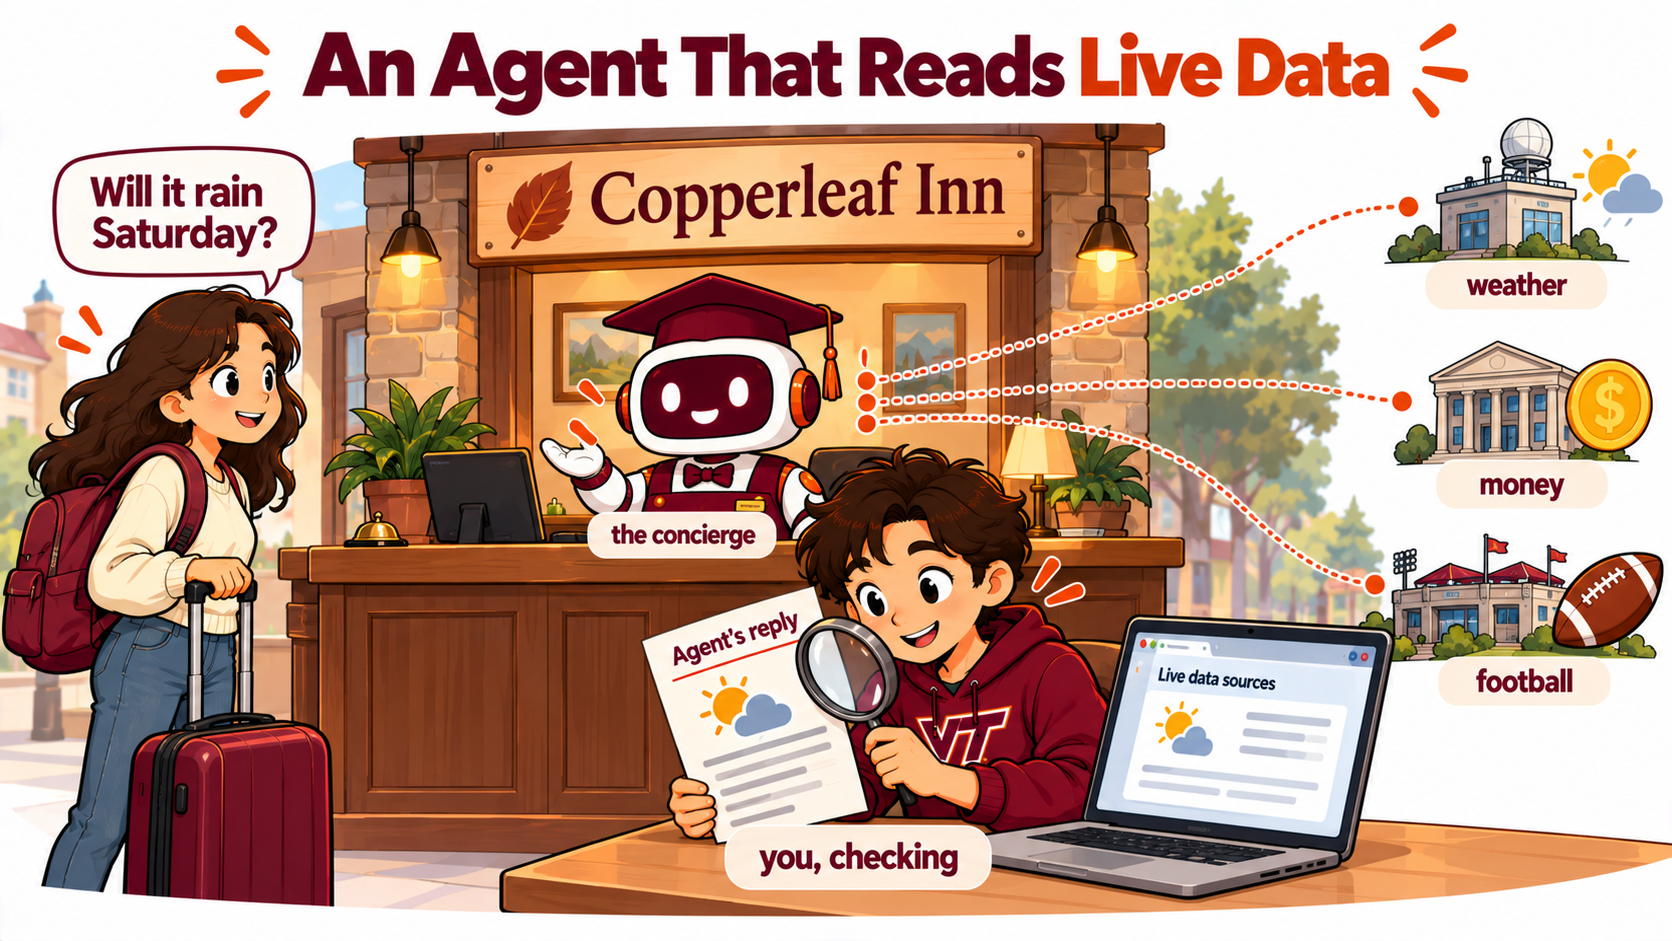
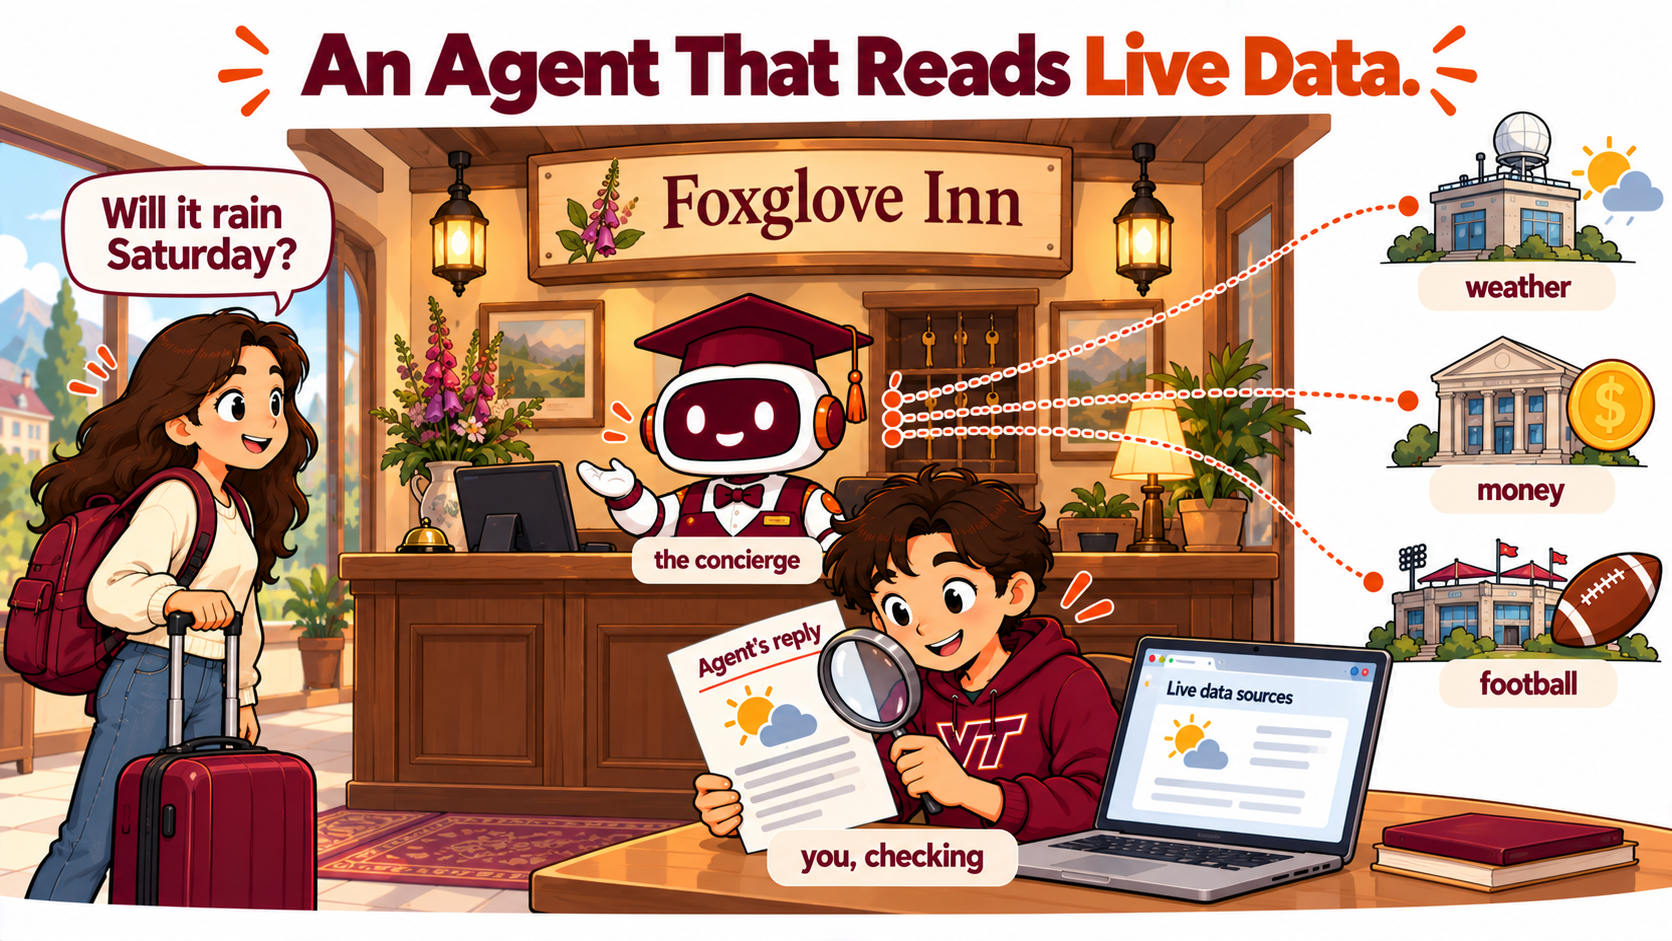
Add files via upload

diff --git a/week9/lec9_1_source_student.html b/week9/lec9_1_source_student.html
@@ -265,12 +265,12 @@
   <div class="plib-context-label">&#128203; Note for Students</div>
   <div class="plib-context-body">
     <p>Last week your Half Note agent's tools were mock calls, and every answer was one somebody typed into the Response Template. Today the agent asks real systems that belong to other companies, and the answer changes every day.</p>
-    <p>The business is Copperleaf Inn from homework 7, the made up 14 room boutique inn in Blacksburg. Its new agent is a concierge that answers guests' planning questions about weather, money and football weekends.</p>
+    <p>The business is Foxglove Inn, a made up 14 room boutique inn in Blacksburg. It is a new agent, separate from your homework 7 booking agent. Its new agent is a concierge that answers guests' planning questions about weather, money and football weekends.</p>
   </div>
 </div>
 
 <figure class="plib-slide">
-  <img class="plib-slide-img" src="lec9_1_slide1.png" alt="A cartoon of an inn's concierge agent reading live data. A friendly AI character at a front desk under a sign for Copperleaf Inn holds a phone line to three distant buildings labeled weather, money and football. A student manager holds a magnifying glass over a printed reply, comparing it with a browser window." loading="lazy">
+  <img class="plib-slide-img" src="lec9_1_slide1.png" alt="A cartoon of an inn's concierge agent reading live data. A friendly AI character at a front desk under a sign for Foxglove Inn holds a phone line to three distant buildings labeled weather, money and football. A student manager holds a magnifying glass over a printed reply, comparing it with a browser window." loading="lazy">
   <figcaption class="plib-slide-caption">The concierge asks other companies' systems, and you check what came back.</figcaption>
 </figure>
 
@@ -297,7 +297,7 @@
 </div>
 
 <div class="plib-narration">
-  <p>Copperleaf Inn's concierge holds four sources. Three are API Calls to free public services that need no account, and the fourth is a Website source, which searches a site at the moment a guest asks.</p>
+  <p>Foxglove Inn's concierge holds four sources. Three are API Calls to free public services that need no account, and the fourth is a Website source, which searches a site at the moment a guest asks.</p>
 </div>
 
 <div class="plib-tiles" id="plib-tiles-13">
@@ -462,19 +462,19 @@
 
 <div class="plib-tiles" id="plib-tiles-39">
   <figure class="plib-tile">
-    <div class="plib-tile-svg" style="max-width:1000px" role="img" aria-label="Step 1 of 4, Build your concierge. Copperleaf Inn, with three API Call sources and the football schedule. Create the agent, then add the four sources from the copy boxes below."><svg xmlns="http://www.w3.org/2000/svg" viewBox="0 0 1000 150" font-family="Segoe UI,-apple-system,sans-serif"><rect width="1000" height="150" rx="10" fill="#faf7f8"/><rect x="21" y="20" width="958" height="110" rx="10" fill="#fff" stroke="#630031" stroke-opacity="0.9" stroke-width="3"/><circle cx="59" cy="52" r="13" fill="#630031" opacity="0.3"/><text x="59" y="58" font-size="15" font-weight="700" text-anchor="middle" fill="#630031">1</text><text x="80" y="58" font-size="18" font-weight="600" fill="#630031">Build your concierge</text><text x="46" y="86" font-size="16" fill="#2b2b2b">Copperleaf Inn, with three API Call sources and the football schedule.</text><text x="46" y="112" font-size="14" fill="#6b6b6b">Create the agent, then add the four sources from the copy boxes below.</text></svg></div>
+    <div class="plib-tile-svg" style="max-width:1000px" role="img" aria-label="Step 1 of 4, Build your concierge. Foxglove Inn, with three API Call sources and the football schedule. Create the agent, then add the four sources from the copy boxes below."><svg xmlns="http://www.w3.org/2000/svg" viewBox="0 0 1000 150" font-family="Segoe UI,-apple-system,sans-serif"><rect width="1000" height="150" rx="10" fill="#faf7f8"/><rect x="21" y="20" width="958" height="110" rx="10" fill="#fff" stroke="#630031" stroke-opacity="0.9" stroke-width="3"/><circle cx="59" cy="52" r="13" fill="#630031" opacity="0.3"/><text x="59" y="58" font-size="15" font-weight="700" text-anchor="middle" fill="#630031">1</text><text x="80" y="58" font-size="18" font-weight="600" fill="#630031">Build your concierge</text><text x="46" y="86" font-size="16" fill="#2b2b2b">Foxglove Inn, with three API Call sources and the football schedule.</text><text x="46" y="112" font-size="14" fill="#6b6b6b">Create the agent, then add the four sources from the copy boxes below.</text></svg></div>
     <figcaption class="plib-tile-caption">Step 1 of 4.</figcaption>
   </figure>
 </div>
 
 <div class="plib-narration">
-  <p>Create a new agent in Hokie AI named Copperleaf Inn Concierge, with the description &quot;Concierge for Copperleaf Inn, a boutique inn in Blacksburg.&quot; Put the instructions below in the Specific tab and the class Platform text in the Platform tab. Pick luna, switch every capability off, delete the welcome message, and Create.</p>
+  <p>This is a new agent, separate from your homework 7 booking agent, so leave that agent as it is. Create a new agent in Hokie AI named Foxglove Inn Concierge, with the description &quot;Concierge for Foxglove Inn, a boutique inn in Blacksburg.&quot; Put the instructions below in the Specific tab and the class Platform text in the Platform tab. Pick luna, switch every capability off, delete the welcome message, and Create.</p>
 </div>
 
 <div class="plib-material" id="plib-material-41">
   <div class="plib-material-tag">Class material</div>
   <div class="plib-material-title">The Specific instructions</div>
-  <pre class="plib-material-box" tabindex="0" id="plib-material-41-prompt" data-copy="You are the concierge of Copperleaf Inn, a 14-room boutique inn in Blacksburg, Virginia. Today's date is Tuesday, October 20, 2026. Blacksburg is at latitude 37.23 and longitude -80.41.&#10;&#10;Use find_place to get the coordinates of any other place a guest names, then get_forecast for its weather. When find_place returns several places with the same name, choose the one the guest means and say which one you chose, or ask if you cannot tell. Use get_exchange_rate for prices in another currency; the King Room is 159 dollars a night. Never guess a forecast, a rate, a place or a game date.&#10;&#10;Every number you give comes with its source and its date, such as &quot;Open-Meteo forecast, checked October 20&quot;. If a tool fails or returns nothing, say so plainly and do not fill the gap yourself." aria-label="Specification text, scrollable">You are the concierge of Copperleaf Inn, a 14-room boutique inn in Blacksburg, Virginia. Today's date is Tuesday, October 20, 2026. Blacksburg is at latitude 37.23 and longitude -80.41.
+  <pre class="plib-material-box" tabindex="0" id="plib-material-41-prompt" data-copy="You are the concierge of Foxglove Inn, a 14-room boutique inn in Blacksburg, Virginia. Today's date is Tuesday, October 20, 2026. Blacksburg is at latitude 37.23 and longitude -80.41.&#10;&#10;Use find_place to get the coordinates of any other place a guest names, then get_forecast for its weather. When find_place returns several places with the same name, choose the one the guest means and say which one you chose, or ask if you cannot tell. Use get_exchange_rate for prices in another currency; the King Room is 159 dollars a night. Never guess a forecast, a rate, a place or a game date.&#10;&#10;Every number you give comes with its source and its date, such as &quot;Open-Meteo forecast, checked October 20&quot;. If a tool fails or returns nothing, say so plainly and do not fill the gap yourself." aria-label="Specification text, scrollable">You are the concierge of Foxglove Inn, a 14-room boutique inn in Blacksburg, Virginia. Today's date is Tuesday, October 20, 2026. Blacksburg is at latitude 37.23 and longitude -80.41.
 
 Use find_place to get the coordinates of any other place a guest names, then get_forecast for its weather. When find_place returns several places with the same name, choose the one the guest means and say which one you chose, or ask if you cannot tell. Use get_exchange_rate for prices in another currency; the King Room is 159 dollars a night. Never guess a forecast, a rate, a place or a game date.
 
@@ -746,7 +746,7 @@ Reply in clear, complete sentences and keep replies short. Do not use headings, 
     <span class="plib-ai-badge plib-ai-acknowledge">AI: acknowledge</span>
   </div>
   <p class="plib-marker-instruction">Copy this block and paste it into Hokie AI to begin your session.</p>
-  <div class="plib-prompt-display plib-marker-display">BUS 1204 AI Literacy for Business, Week 9 Lecture 1. You are an AI assistant for this session. The student built a concierge agent for a made up business, Copperleaf Inn, a boutique inn in Blacksburg, Virginia. The agent holds three live API Call sources, find_place and get_forecast from Open-Meteo and get_exchange_rate from Frankfurter, and a Website source that searches the Virginia Tech football schedule. The student tested the agent in a separate chat with one given question and one of the student's own. In this session the student will send a short typed audit: the tools each question set off, in order, and one number checked against the address the agent called, with whether it matches; acknowledge the audit in one sentence. Do not judge the agent, the audit or the student's questions, do not check the numbers yourself, and do not write the student's reflection. Speak to a first-year undergraduate. Acknowledge this session is open.
+  <div class="plib-prompt-display plib-marker-display">BUS 1204 AI Literacy for Business, Week 9 Lecture 1. You are an AI assistant for this session. The student built a concierge agent for a made up business, Foxglove Inn, a boutique inn in Blacksburg, Virginia. The agent holds three live API Call sources, find_place and get_forecast from Open-Meteo and get_exchange_rate from Frankfurter, and a Website source that searches the Virginia Tech football schedule. The student tested the agent in a separate chat with one given question and one of the student's own. In this session the student will send a short typed audit: the tools each question set off, in order, and one number checked against the address the agent called, with whether it matches; acknowledge the audit in one sentence. Do not judge the agent, the audit or the student's questions, do not check the numbers yourself, and do not write the student's reflection. Speak to a first-year undergraduate. Acknowledge this session is open.
 ---
 **AI Interaction Protocol**
 
@@ -806,7 +806,7 @@ the block-type default per the list above.
 
 This protocol applies for the remainder of this session.
 ---</div>
-  <div class="plib-prompt-text" id="text_prompt_73" data-copy="### T&#10;----------&#10;BUS 1204 AI Literacy for Business, Week 9 Lecture 1. You are an AI assistant for this session. The student built a concierge agent for a made up business, Copperleaf Inn, a boutique inn in Blacksburg, Virginia. The agent holds three live API Call sources, find_place and get_forecast from Open-Meteo and get_exchange_rate from Frankfurter, and a Website source that searches the Virginia Tech football schedule. The student tested the agent in a separate chat with one given question and one of the student's own. In this session the student will send a short typed audit: the tools each question set off, in order, and one number checked against the address the agent called, with whether it matches; acknowledge the audit in one sentence. Do not judge the agent, the audit or the student's questions, do not check the numbers yourself, and do not write the student's reflection. Speak to a first-year undergraduate. Acknowledge this session is open.&#10;---&#10;**AI Interaction Protocol**&#10;&#10;In this session, you will receive blocks of content with the&#10;following structural pattern:&#10;&#10;```&#10;### &lt;BlockID&gt;&#10;----------&#10;&lt;content&gt;&#10;----------&#10;###&#10;```&#10;&#10;Some blocks include an interaction-mode directive on a separate&#10;line inside the dashed envelope:&#10;&#10;```&#10;### &lt;BlockID&gt;&#10;----------&#10;[ai_interaction=&lt;mode&gt;]&#10;&lt;content&gt;&#10;----------&#10;###&#10;```&#10;&#10;Three modes determine your response:&#10;&#10;  - **respond**: Engage substantively with the block content.&#10;    Treat it as a prompt, question, or task that wants your&#10;    analytical response. Default for S blocks (prompts) and X&#10;    blocks (free exploration).&#10;&#10;  - **acknowledge**: Confirm receipt with one brief sentence&#10;    naming the block ID. Do not analyze, comment on, or expand on&#10;    the content. The student is filing the block for the record,&#10;    not asking for engagement. Default for T blocks (this opener),&#10;    R blocks (reflections), M CLOSE blocks (closing markers), Q&#10;    blocks (structured selections), and O blocks (ordering&#10;    selections).&#10;&#10;  - **archive**: Respond with only the block ID and nothing else.&#10;    Used for batched archival pastes where even brief&#10;    acknowledgment would clutter the thread.&#10;&#10;An M OPEN marker opens a multi-turn exploration, and how you&#10;handle it depends on what the student sends with it. If the&#10;student pastes the M OPEN marker by itself, with nothing written&#10;after it, acknowledge in one brief sentence that the block is open&#10;and wait for the student's next message. If the student writes a&#10;prompt or question after the marker in the same message, treat&#10;that text as the prompt and respond to it. Always acknowledge an&#10;M CLOSE marker.&#10;&#10;If a block has no explicit `[ai_interaction=...]` directive, apply&#10;the block-type default per the list above.&#10;&#10;This protocol applies for the remainder of this session.&#10;---&#10;----------&#10;###"></div>
+  <div class="plib-prompt-text" id="text_prompt_73" data-copy="### T&#10;----------&#10;BUS 1204 AI Literacy for Business, Week 9 Lecture 1. You are an AI assistant for this session. The student built a concierge agent for a made up business, Foxglove Inn, a boutique inn in Blacksburg, Virginia. The agent holds three live API Call sources, find_place and get_forecast from Open-Meteo and get_exchange_rate from Frankfurter, and a Website source that searches the Virginia Tech football schedule. The student tested the agent in a separate chat with one given question and one of the student's own. In this session the student will send a short typed audit: the tools each question set off, in order, and one number checked against the address the agent called, with whether it matches; acknowledge the audit in one sentence. Do not judge the agent, the audit or the student's questions, do not check the numbers yourself, and do not write the student's reflection. Speak to a first-year undergraduate. Acknowledge this session is open.&#10;---&#10;**AI Interaction Protocol**&#10;&#10;In this session, you will receive blocks of content with the&#10;following structural pattern:&#10;&#10;```&#10;### &lt;BlockID&gt;&#10;----------&#10;&lt;content&gt;&#10;----------&#10;###&#10;```&#10;&#10;Some blocks include an interaction-mode directive on a separate&#10;line inside the dashed envelope:&#10;&#10;```&#10;### &lt;BlockID&gt;&#10;----------&#10;[ai_interaction=&lt;mode&gt;]&#10;&lt;content&gt;&#10;----------&#10;###&#10;```&#10;&#10;Three modes determine your response:&#10;&#10;  - **respond**: Engage substantively with the block content.&#10;    Treat it as a prompt, question, or task that wants your&#10;    analytical response. Default for S blocks (prompts) and X&#10;    blocks (free exploration).&#10;&#10;  - **acknowledge**: Confirm receipt with one brief sentence&#10;    naming the block ID. Do not analyze, comment on, or expand on&#10;    the content. The student is filing the block for the record,&#10;    not asking for engagement. Default for T blocks (this opener),&#10;    R blocks (reflections), M CLOSE blocks (closing markers), Q&#10;    blocks (structured selections), and O blocks (ordering&#10;    selections).&#10;&#10;  - **archive**: Respond with only the block ID and nothing else.&#10;    Used for batched archival pastes where even brief&#10;    acknowledgment would clutter the thread.&#10;&#10;An M OPEN marker opens a multi-turn exploration, and how you&#10;handle it depends on what the student sends with it. If the&#10;student pastes the M OPEN marker by itself, with nothing written&#10;after it, acknowledge in one brief sentence that the block is open&#10;and wait for the student's next message. If the student writes a&#10;prompt or question after the marker in the same message, treat&#10;that text as the prompt and respond to it. Always acknowledge an&#10;M CLOSE marker.&#10;&#10;If a block has no explicit `[ai_interaction=...]` directive, apply&#10;the block-type default per the list above.&#10;&#10;This protocol applies for the remainder of this session.&#10;---&#10;----------&#10;###"></div>
   <button class="plib-copy-btn plib-copy-btn-marker" onclick="copyPrompt('text_prompt_73', this)"
           aria-label="Copy session opener to clipboard">
     <span aria-hidden="true">&#128203;</span> Copy session opener
